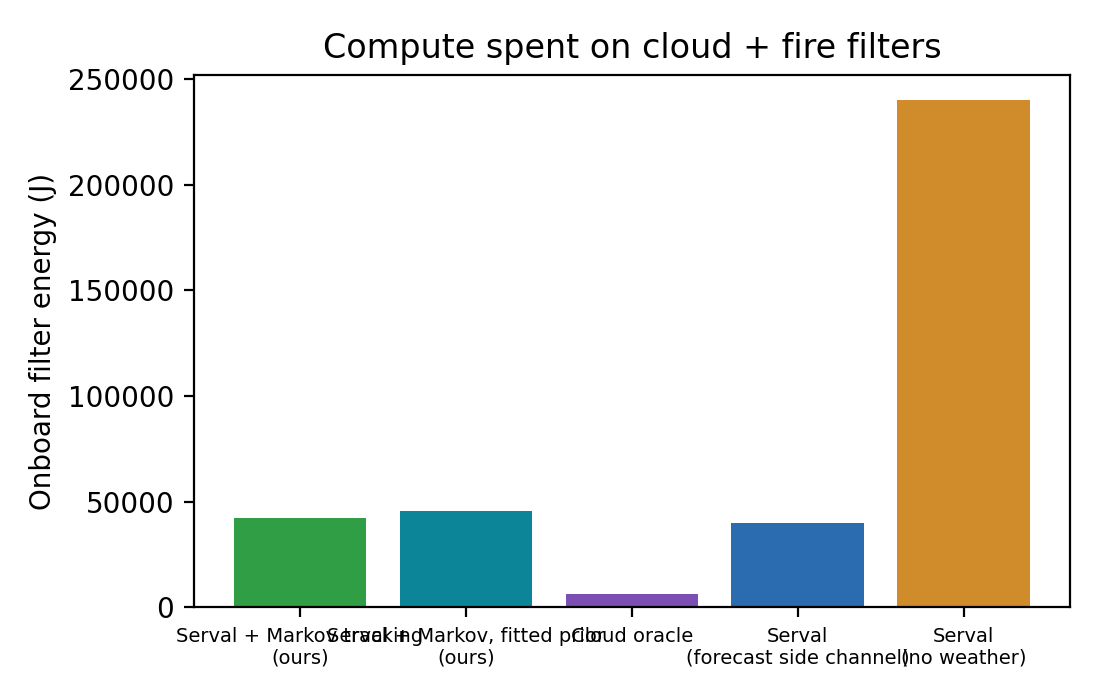
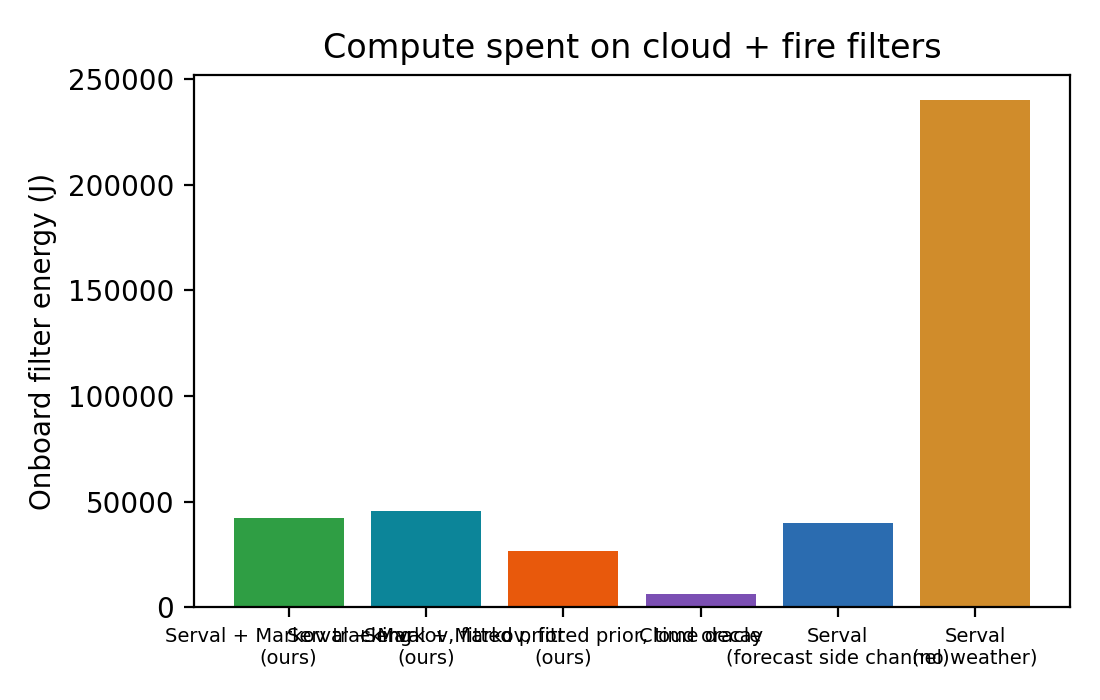
Improve Markov extension: time decay, forecast calibration, neighbor cells
- --decay continuous: age observations by elapsed time instead of at least one
  orbit, so frames in the same pass reuse a fresh observation.
- --forecast_calibration: Bayesian fusion with per-bin forecast likelihood
  ratios fitted on the training week (documented as a negative result).
- --weather_cells_file: cells without an observation borrow an adjacent cell's,
  weighted by the fitted neighbor correlation.
- fit_markov.py fits all parameters on the disjoint training week; new arms in
  run_all.sh; README results updated. All options default off.

diff --git a/Serval/Sat_Simulator/weather_engine.py b/Serval/Sat_Simulator/weather_engine.py
@@ -23,6 +23,20 @@ Recovery policy (Methods Sec. 2.1): when a forest image of a cell is
 de-prioritised as cloudy `ttl` passes in a row, the satellite emits a small
 high-priority "SAR offload" alert so operators can re-task a radar satellite.
 
+Calibrated fusion (--forecast_calibration): instead of the lambda^k blend, the forecast
+is treated as evidence with likelihood ratios fitted on a separate week
+(tools/fit_markov.py) and combined with the Markov prior by Bayes' rule:
+
+    odds(clear | obs, forecast) = odds_prior * LR(forecast bin)
+
+The prior relaxes from the observed state toward an uninformative 0.5 (not the fitted
+chain's stationary clear fraction, which reflects how clear the training week was).
+
+Neighbor observations (--weather_cells_file): when a cell has no observation of its own,
+the most recent observation of an adjacent cell (0.5 degree grid, diagonals included) is
+used instead, its weight scaled by rho, the same-hour cloud correlation between adjacent
+cells fitted on the training week.
+
 Modes:
   none   - engine disabled, simulator is byte-for-byte baseline Serval
   markov - the extension described above
@@ -30,6 +44,7 @@ Modes:
 """
 
 import csv
+import json
 
 STEP_SECONDS = 90 * 60
 
@@ -41,7 +56,7 @@ REGIMES = {
     "tropical": {"p_cc": 0.85, "cloud_fraction": 0.75},
     # Fitted by tools/fit_markov.py on ERA5 for 2026-10-13..19, a week disjoint from the
     # simulated period (data/public/weather_california_train.csv).
-    "empirical": {"p_cc": 0.770, "p_ss": 0.975, "cloud_fraction": 0.103},
+    "empirical": {"p_cc": 0.770, "p_ss": 0.975, "cloud_fraction": 0.103, "rho_neighbor": 0.640},
 }
 
 ALERT_BITS = 8000  # ~1 KB metadata alert
@@ -51,9 +66,16 @@ class WeatherEngine:
     engine = None  # singleton used by PlanetSatellite / PlanetGS
 
     def __init__(self, image_cells_file, mode="markov", regime="maritime", p_cc=None, ttl=3,
-                 thresholds=(0.2, 0.8)):
+                 thresholds=(0.2, 0.8), decay="orbit", calibration_file=None,
+                 weather_cells_file=None):
         self.mode = mode
         self.ttl = ttl
+        self.decay = decay
+        self.lr = None
+        if calibration_file:
+            with open(calibration_file) as fh:
+                cal = json.load(fh)
+            self.lr, self.bin_width = cal["likelihood_ratio_clear"], cal["bin_width_pct"]
         self.low, self.high = thresholds
         if p_cc is None:
             p_cc = REGIMES[regime]["p_cc"]
@@ -61,6 +83,16 @@ class WeatherEngine:
         p_ss = REGIMES[regime].get("p_ss", 1 - pi_c * (1 - p_cc) / (1 - pi_c))
         self.p_cc, self.p_ss = p_cc, max(0.0, min(1.0, p_ss))
         self.lam = self.p_cc + self.p_ss - 1
+        self.rho = REGIMES[regime].get("rho_neighbor", 0.0)
+        self.neighbors = {}  # cell -> adjacent cells
+        if weather_cells_file:
+            coords = {}
+            with open(weather_cells_file) as fh:
+                for row in csv.DictReader(fh):
+                    coords.setdefault(int(row["cell_id"]), (float(row["lat"]), float(row["lon"])))
+            for c, (la, lo) in coords.items():
+                self.neighbors[c] = [n for n, (la2, lo2) in coords.items()
+                                     if n != c and abs(la2 - la) <= 0.501 and abs(lo2 - lo) <= 0.501]
 
         self.info = {}  # image name -> (cell, clear, forest)
         with open(image_cells_file) as fh:
@@ -68,7 +100,8 @@ class WeatherEngine:
                 self.info[row["image"]] = (int(row["cell_id"]), int(row["clear"]), row["forest"] == "True")
         self.last_obs = {}  # cell -> (datetime, clear)
         self.cloudy_streak = {}  # cell -> consecutive forest images de-prioritised as cloudy
-        self.stats = {"predictions": 0, "with_observation": 0, "observations": 0, "sar_alerts": 0}
+        self.stats = {"predictions": 0, "with_observation": 0, "with_neighbor_observation": 0,
+                      "observations": 0, "sar_alerts": 0}
 
     def _p_clear_markov(self, clear, steps):
         """P(clear after `steps` transitions | current state)."""
@@ -85,14 +118,39 @@ class WeatherEngine:
         if self.mode == "oracle":
             return float(clear)
         forecast = image.side_channel_info["cloud"]
-        obs = self.last_obs.get(cell)
+        obs, weight = self.last_obs.get(cell), 1.0
+        if (obs is None or obs[0] >= now) and self.rho > 0:
+            nearby = [self.last_obs[n] for n in self.neighbors.get(cell, ())
+                      if n in self.last_obs and self.last_obs[n][0] < now]
+            obs, weight = (max(nearby), self.rho) if nearby else (None, 1.0)
+            if obs is not None:
+                self.stats["with_neighbor_observation"] += 1
         if obs is None or obs[0] >= now:
-            return forecast
-        self.stats["with_observation"] += 1
-        # The chain advances in whole orbits (lambda can be negative, e.g. the arid regime)
-        steps = max(1, round((now - obs[0]).total_seconds() / STEP_SECONDS))
-        memory = abs(self.lam) ** steps
+            return forecast if self.lr is None else self._calibrated(0.5, forecast)
+        if weight == 1.0:
+            self.stats["with_observation"] += 1
+        elapsed = (now - obs[0]).total_seconds() / STEP_SECONDS
+        if self.decay == "continuous" and self.lam > 0:
+            # Elapsed time in (fractional) orbits, so a frame seconds after an observation in
+            # the same pass trusts it almost fully
+            steps = elapsed
+        else:
+            # The chain advances in whole orbits (lambda can be negative, e.g. the arid regime)
+            steps = max(1, round(elapsed))
+        memory = weight * abs(self.lam) ** steps
+        if self.lr is not None:
+            prior = 0.5 + ((1.0 if obs[1] else 0.0) - 0.5) * memory
+            return self._calibrated(prior, forecast)
         return memory * self._p_clear_markov(obs[1], steps) + (1 - memory) * forecast
+
+    def _calibrated(self, prior, forecast):
+        """Bayes update of P(clear) with the forecast's fitted likelihood ratio."""
+        cloud_pct = (1 - forecast) * 100
+        lr = self.lr[min(int(cloud_pct // self.bin_width), len(self.lr) - 1)]
+        if prior >= 1.0:
+            return 1.0
+        odds = prior / (1 - prior) * lr
+        return odds / (1 + odds)
 
     def observe(self, image):
         """Record the true cloud state of an image once it is known (called at that moment

diff --git a/tools/fit_markov.py b/tools/fit_markov.py
@@ -10,18 +10,27 @@ Cloudy means truth cloud cover > 50%, the same rule tools/generate_workload.py u
 image labels. Hourly values are linearly interpolated to 30 minutes so the 90-minute
 transition can be counted directly. The printed values are the "empirical" entry of
 REGIMES in Serval/Sat_Simulator/weather_engine.py.
+
+It also fits rho_neighbor, the same-hour cloud correlation between adjacent grid cells,
+and the forecast calibration used by --forecast_calibration: for each 10% bin of
+forecast cloud cover, the likelihood ratio P(bin | clear) / P(bin | cloudy). A likelihood
+ratio does not depend on how cloudy the training week was, unlike P(clear | bin).
 """
 
 import argparse
+import json
 
+import numpy as np
 import pandas as pd
 
 LAG_MINUTES = 90
+BINS = 10
 
 
 def main():
     p = argparse.ArgumentParser()
     p.add_argument("weather_csv")
+    p.add_argument("--calibration_out", default="data/public/forecast_calibration.json")
     args = p.parse_args()
 
     df = pd.read_csv(args.weather_csv, parse_dates=["time"])
@@ -44,6 +53,32 @@ def main():
     print(f"cells={df.cell_id.nunique()}  {df.time.min()} .. {df.time.max()}")
     print(f"p_cc={p_cc:.3f}  p_ss={p_ss:.3f}  cloud_fraction={cloudy_total / samples:.3f}  "
           f"lambda={p_cc + p_ss - 1:.3f}")
+
+    # Same-hour cloud correlation between adjacent cells (0.5 deg grid, diagonals included),
+    # the weight of a neighbor's observation (rho_neighbor in REGIMES["empirical"])
+    cells = df.groupby("cell_id")[["lat", "lon"]].first()
+    cloudy_by_hour = (df.pivot(index="time", columns="cell_id", values="truth_cloud_pct") > 50)
+    a, b = [], []
+    for c, (la, lo) in cells.iterrows():
+        near = cells[(abs(cells.lat - la) <= 0.501) & (abs(cells.lon - lo) <= 0.501) & (cells.index != c)]
+        for n in near.index:
+            a.append(cloudy_by_hour[c].to_numpy())
+            b.append(cloudy_by_hour[n].to_numpy())
+    rho = np.corrcoef(np.concatenate(a), np.concatenate(b))[0, 1]
+    print(f"rho_neighbor={rho:.3f}")
+
+    clear = df["truth_cloud_pct"] <= 50
+    bins = np.minimum(df["forecast_cloud_pct"] // (100 // BINS), BINS - 1).astype(int)
+    # Laplace smoothing keeps sparse bins finite
+    n_clear = np.bincount(bins[clear], minlength=BINS) + 1
+    n_cloudy = np.bincount(bins[~clear], minlength=BINS) + 1
+    lr = (n_clear / n_clear.sum()) / (n_cloudy / n_cloudy.sum())
+    with open(args.calibration_out, "w") as fh:
+        json.dump({"source": args.weather_csv, "bin_width_pct": 100 // BINS,
+                   "likelihood_ratio_clear": [round(float(x), 4) for x in lr]}, fh, indent=2)
+    print("forecast likelihood ratio P(bin|clear)/P(bin|cloudy) per 10% bin:",
+          " ".join(f"{x:.3f}" for x in lr))
+    print(f"wrote {args.calibration_out}")
 
 
 if __name__ == "__main__":

diff --git a/analysis/analyze.py b/analysis/analyze.py
@@ -38,6 +38,11 @@ LABELS = {
     "serval": "Serval (forecast side channel)",
     "markov": "Serval + Markov tracking (ours)",
     "markov_empirical": "Serval + Markov, fitted prior (ours)",
+    "markov_empirical_cont": "Serval + Markov, fitted prior, time decay (ours)",
+    "markov_empirical_cal": "Serval + Markov, calibrated forecast (ours)",
+    "markov_empirical_cal_cont": "Serval + Markov, calibrated, time decay (ours)",
+    "markov_empirical_nbr": "Serval + Markov, neighbor cells (ours)",
+    "markov_empirical_cont_nbr": "Serval + Markov, time decay + neighbors (ours)",
     "oracle": "Cloud oracle",
 }
 COLORS = {
@@ -46,6 +51,11 @@ COLORS = {
     "serval": "#2b6cb0",
     "markov": "#2f9e44",
     "markov_empirical": "#0c8599",
+    "markov_empirical_cont": "#e8590c",
+    "markov_empirical_cal": "#c2255c",
+    "markov_empirical_cal_cont": "#5f3dc4",
+    "markov_empirical_nbr": "#66a80f",
+    "markov_empirical_cont_nbr": "#d6336c",
     "oracle": "#7b4fb3",
 }
 
@@ -216,10 +226,10 @@ def main():
 
     figure(["inorder", "serval"], "Reproduction of Fig. 7: high-priority latency", "fig7_reproduction.png")
     figure(["serval_noweather", "serval"], "Reproduction of Fig. 8b: effect of weather", "fig8b_reproduction.png")
-    figure(["serval_noweather", "serval", "markov", "markov_empirical", "oracle"], "Extension: cloud tracking",
+    figure(["serval_noweather", "serval", "markov", "markov_empirical", "markov_empirical_cont", "oracle"], "Extension: cloud tracking",
            "extension_latency_cdf.png")
 
-    ext = [r for r in rows if r["arm"] in ("serval_noweather", "serval", "markov", "markov_empirical", "oracle")]
+    ext = [r for r in rows if r["arm"] in ("serval_noweather", "serval", "markov", "markov_empirical", "markov_empirical_cont", "oracle")]
     if ext:
         fig, ax = plt.subplots(figsize=(5.5, 3.5))
         ax.bar([LABELS[r["arm"]].replace(" (", "\n(") for r in ext], [r["onboard_compute_J"] for r in ext],

diff --git a/Serval/Sat_Simulator/edgeCompute.py b/Serval/Sat_Simulator/edgeCompute.py
@@ -39,12 +39,21 @@ if __name__ == "__main__":
     parser.add_argument("--regime", choices=sorted(REGIMES), default="maritime")
     parser.add_argument("--p_cc", type=float, default=None,
                         help="override the regime's cloud-to-cloud persistence (Scenario C sweep)")
+    parser.add_argument("--decay", choices=["orbit", "continuous"], default="orbit",
+                        help="age observations in whole orbits, or by elapsed time when lambda > 0")
+    parser.add_argument("--forecast_calibration", type=str, default=None,
+                        help="JSON from tools/fit_markov.py; fuse forecast and Markov prior by Bayes")
+    parser.add_argument("--weather_cells_file", type=str, default=None,
+                        help="weather CSV with cell coordinates; enables neighbor observations")
     parser.add_argument("--query_ttl_passes", type=int, default=3)
     parser.add_argument("--image_cells_file", type=str, default="data/image_cells.csv")
     args = parser.parse_args()
     if args.weather_model != "none":
         WeatherEngine.engine = WeatherEngine(args.image_cells_file, mode=args.weather_model,
-                                             regime=args.regime, p_cc=args.p_cc, ttl=args.query_ttl_passes,
+                                             regime=args.regime, p_cc=args.p_cc, decay=args.decay,
+                                             calibration_file=args.forecast_calibration,
+                                             weather_cells_file=args.weather_cells_file,
+                                             ttl=args.query_ttl_passes,
                                              thresholds=args.cloud_threshold)
     const.DOWNLINK_BANDWIDTH_SCALING = args.downlink_bandwidth_scaling
     const.OEC = args.oec

diff --git a/README.md b/README.md
@@ -142,6 +142,9 @@ All arms share the workload, orbits, ground stations, 1% compute/network budget 
 | `markov` | Serval + our Markov cloud tracking, maritime prior | `--weather_model markov --regime maritime` |
 | `oracle` | Side channel replaced by ground truth (upper bound) | `--weather_model oracle` |
 | `markov_empirical` | Markov tracking with persistence fitted by `tools/fit_markov.py` on a disjoint week (2026-10-13 to 19) | `--weather_model markov --regime empirical` |
+| `markov_empirical_cont` | Same, but observations age by elapsed time rather than at least one whole orbit, so a frame seconds after an observation in the same pass trusts it | `... --regime empirical --decay continuous` |
+| `markov_empirical_nbr`, `markov_empirical_cont_nbr` | A cell with no observation of its own borrows the latest one from an adjacent cell, weighted by the fitted neighbor correlation ρ = 0.64 (without / with time decay) | `... --weather_cells_file data/public/weather_california.csv` |
+| `markov_empirical_cal`, `markov_empirical_cal_cont` | Forecast calibrated on the training week and fused with the Markov prior by Bayes' rule (without / with time decay) | `... --forecast_calibration data/public/forecast_calibration.json` |
 | `markov_arid`, `markov_tropical` | Scenario B: sensitivity to the regime prior | `--regime arid` / `--regime tropical` |
 | `sweep_pcc10` ... `sweep_pcc70` | Scenario C: cloud persistence p_cc = 0.1 ... 0.7 (fitted p_ss held fixed) | `--regime empirical --p_cc 0.1` ... |
 | `inorder`, `serval` in `data/generated-rate/fire02`, `fire15`, `fire5` | Fig. 8: same workload with fire in 2%, 15% and 50% of clear forest frames (main run: 5%) | generator `--fire_share` |
@@ -188,6 +191,11 @@ From `results/summary.csv` and `results/cloud_decisions.csv`:
 | `serval` | 42 / 45 | 1.23 h | 1,334 s (11.1 Wh) | 88.0% | 7.0% | — |
 | `markov` (maritime prior) | 42 / 45 | 1.23 h | 1,402 s | 88.6% | 7.0% | 50 |
 | `markov_empirical` (fitted prior) | 42 / 45 | 1.23 h | 1,526 s (12.7 Wh) | 92.8% | 5.4% | 50 |
+| `markov_empirical_cont` (fitted prior, time decay) | 41 / 45 | 1.23 h | 891 s (7.4 Wh) | 92.3% | 5.9% | 62 |
+| `markov_empirical_nbr` (fitted prior, neighbor cells) | 42 / 45 | 1.23 h | 1,770 s (14.8 Wh) | 94.2% | **4.1%** | 49 |
+| `markov_empirical_cont_nbr` (time decay + neighbor cells) | 41 / 45 | 1.23 h | 1,092 s (9.1 Wh) | 93.5% | 4.6% | 60 |
+| `markov_empirical_cal` (calibrated forecast) | 40 / 45 | 1.25 h (p90 3.2 h) | 2,229 s (18.6 Wh) | 95.5% | 10.8% | 63 |
+| `markov_empirical_cal_cont` (calibrated, time decay) | 40 / 45 | 1.25 h (p90 3.2 h) | 1,870 s (15.6 Wh) | 95.4% | 10.8% | 70 |
 | `oracle` | 45 / 45 | 0.87 h | 204 s | 100% | 0% | 86 |
 
 **Baseline reproduction (Scenario A).** Serval delivers fire images about 28x faster than in-order downlink (median 1.23 h vs 34.4 h, and all 45 vs 24 delivered), the trend of paper Fig. 7. The weather side channel cuts onboard filter compute by 83% (paper Table 5: 83.6%). Unlike paper Fig. 8b, it does not shorten fire latency here: at our scale compute is not the bottleneck, and the forecast wrongly calls 3 clear fire images cloudy.
@@ -204,6 +212,12 @@ Serval keeps high-priority latency flat across a 7x increase in arrival rate. At
 
 **Extension.** With persistence fitted on a separate week, Markov tracking raises cloud-decision accuracy from 88.0% to 92.8% and cuts clear images wrongly skipped as cloudy from 263 to 149 (−43%), at 14% more compute than Serval (still 81% below no-weather Serval). Fire latency is unchanged: the 3 fires Serval loses are still lost. The SAR offload alerts reach the ground in a median 1.23 h.
 
+**Time-based decay (`markov_empirical_cont`).** By default an observation is aged by at least one whole orbit, even for the next frame of the same pass seconds later. Aging it by elapsed time instead lets those frames reuse the observation, so the cloud filter runs on 220 forest images instead of 432. Onboard compute falls to 891 s: 42% below the fitted-prior arm and 33% below Serval. Accuracy stays close (92.3% vs 92.8%; Serval 88.0%), and clear images lost rise slightly (5.9% vs 5.4%; Serval 7.0%). One more fire is lost (41 of 45 delivered vs 42), so this variant trades a little recall for a large energy saving. With 45 fires, one fire is within noise but is reported as measured.
+
+**Neighbor cells (`markov_empirical_nbr`, `markov_empirical_cont_nbr`).** Clouds are spatially correlated: adjacent 0.5° cells agree 94% of the time in the training week (correlation ρ = 0.64, fitted by `tools/fit_markov.py`). A cell's own observation is available for 66% of predictions; borrowing an adjacent cell's (with weight ρ) covers another 25%. With the fitted prior this gives the lowest loss of usable imagery of any non-oracle arm: 4.1% of clear forest images lost (Serval 7.0%), 94.2% decision accuracy, the same 42 of 45 fires as Serval, at 33% more compute than Serval. Combined with time decay it keeps most of that (4.6% lost, 93.5% accuracy) while using 18% less compute than Serval, with one fire fewer. Both improve on their counterparts without neighbor sharing on every cloud-decision metric.
+
+**Calibrated forecast (`markov_empirical_cal*`), a negative result.** `tools/fit_markov.py` fits, per 10% forecast bin, the likelihood ratio P(bin | clear) / P(bin | cloudy) on the training week, and the engine combines it with the Markov prior by Bayes' rule. Accuracy rises to 95.5%, the best of any non-oracle arm, and wrongly-clear skips fall from 149 to 30. But the errors move to the expensive side: clear images skipped as cloudy rise from 45 to 90 (10.8% of clear forest images lost, vs 7.0% for Serval), one or two more fires are lost (40 of 45), and compute rises 67% over Serval. Two reasons. First, a wrongly-clear skip only wastes a fire-filter run, while a wrongly-cloudy skip discards usable imagery, so an accuracy that weights both equally rewards the wrong trade. Second, the training week was 10% cloudy and the test week 54%, so the forecast's error profile shifted. Under Serval's fixed 0.2 / 0.8 thresholds, the uncalibrated forecast is the better input; a cost-aware threshold would be the natural next step, but it would change Serval's decision rule, which this project keeps fixed.
+
 **Scenario B (regime priors).** The proposal's maritime prior gives almost no gain (88.6%) and the arid prior none (88.0%): with λ = p_cc + p_ss − 1 near 0 the chain forgets an observation within one orbit, and the estimate falls back to the forecast. The tropical prior (93.7%) and the fitted prior (92.8%) carry memory across orbits (λ = 0.40 and 0.745). Measured California persistence is high: λ = 0.745 on the training week and 0.687 on the test week.
 
 **Scenario C (persistence sweep, `scenario_c_pareto.png`).** At p_cc ≤ 0.2 the extension behaves like Serval (7.0% clear images lost, 55.9 Wh saved). Raising p_cc to 0.5 lowers losses to 4.4% while still saving 51.7 Wh, 78% of no-weather Serval's filter energy. Beyond 0.5 nothing changes. Fire latency is flat across the sweep (median 1.23 h; 42 to 43 of 45 delivered), so the trade-off is energy vs. usable clear imagery, not latency.
@@ -214,6 +228,9 @@ Serval keeps high-priority latency flat across a 7x increase in arrival rate. At
 |---|---|---|
 | Climate regime prior (cloud persistence p_cc, p_ss or cloud fraction) | `--regime`, `REGIMES` in `weather_engine.py` | maritime (0.65, 0.6) |
 | Override p_cc of the chosen regime | `--p_cc` | regime value |
+| How observations age | `--decay orbit` (at least one orbit) or `--decay continuous` (elapsed time, when λ > 0) | orbit |
+| Neighbor-cell observations | `--weather_cells_file <weather csv>` (weight `rho_neighbor` in `REGIMES`) | off |
+| Bayesian forecast calibration | `--forecast_calibration <json>`, fitted by `tools/fit_markov.py` | off |
 | Fitted persistence | `python tools/fit_markov.py data/public/weather_california_train.csv` | p_cc 0.770, p_ss 0.975 |
 | Passes before SAR alert | `--query_ttl_passes` | 3 |
 | Side-channel thresholds | `--cloud_threshold LOW HIGH` | 0.2 0.8 |
